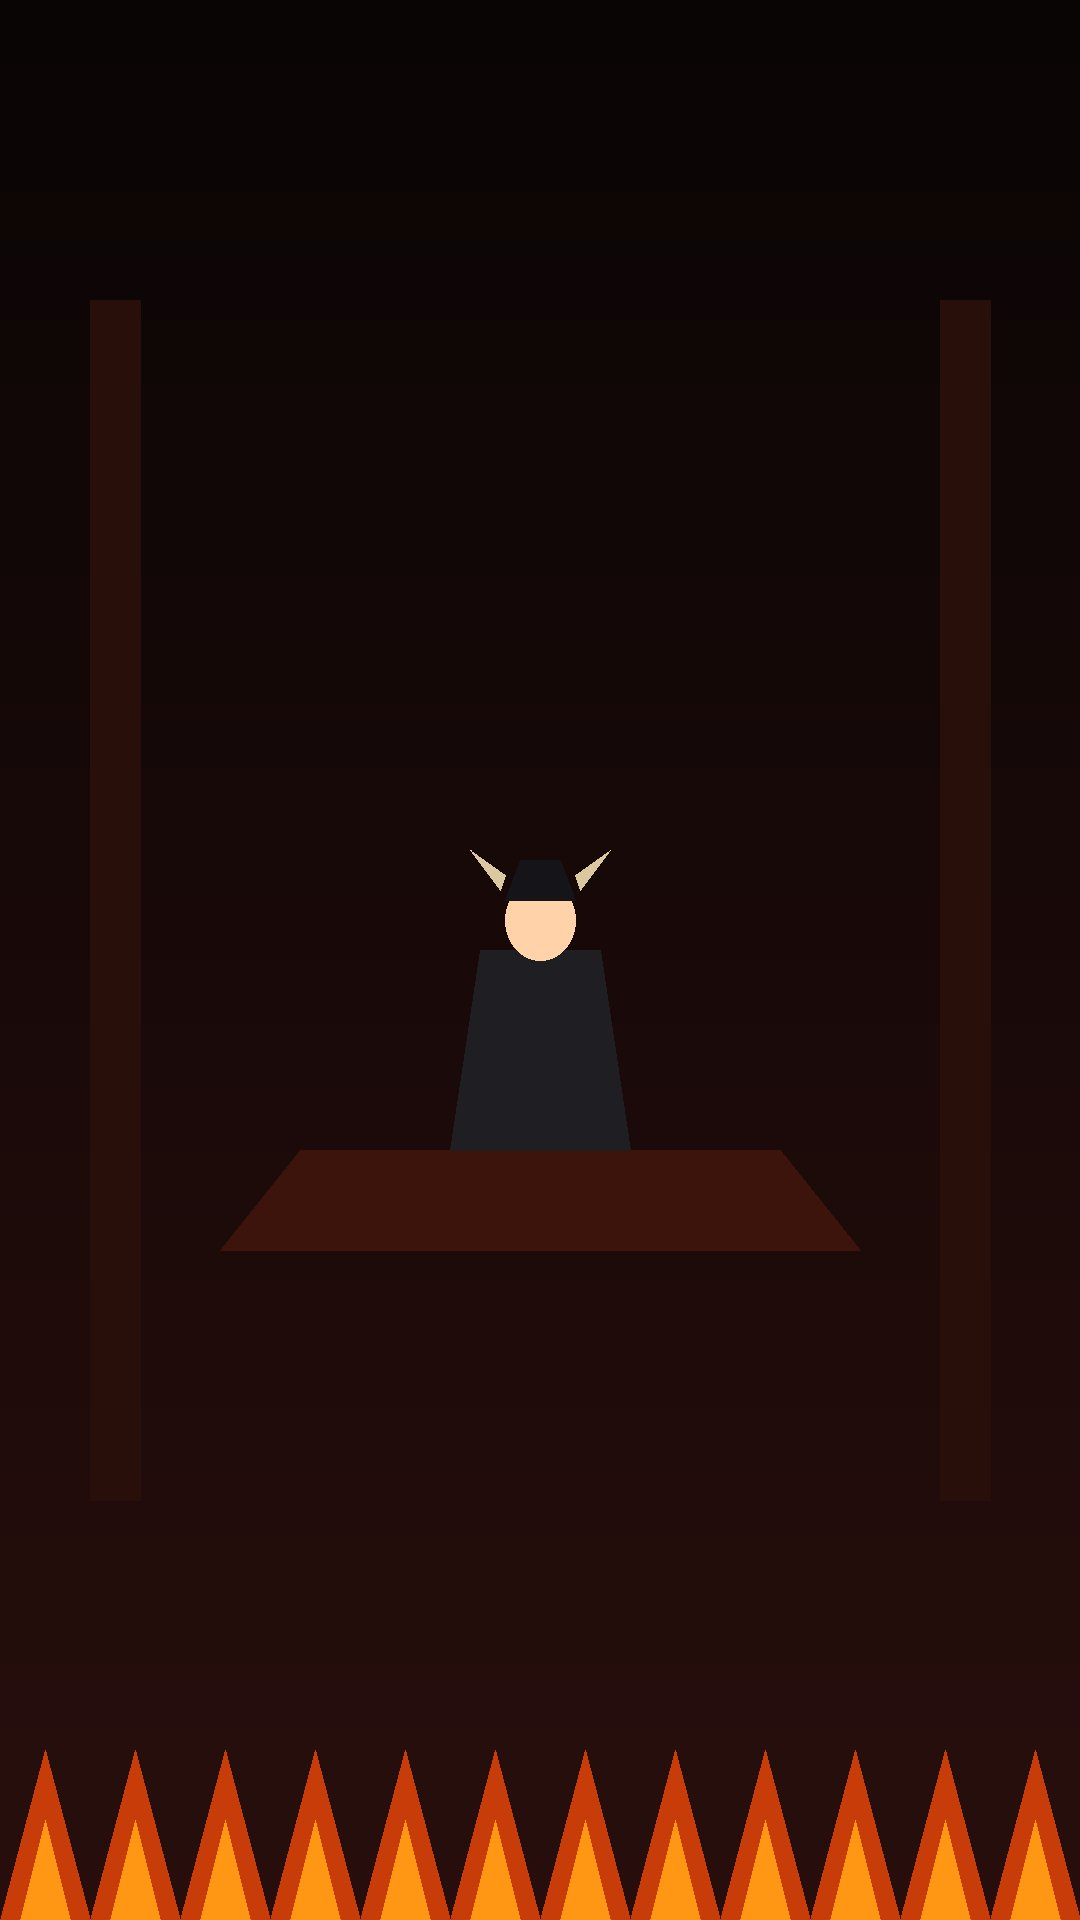
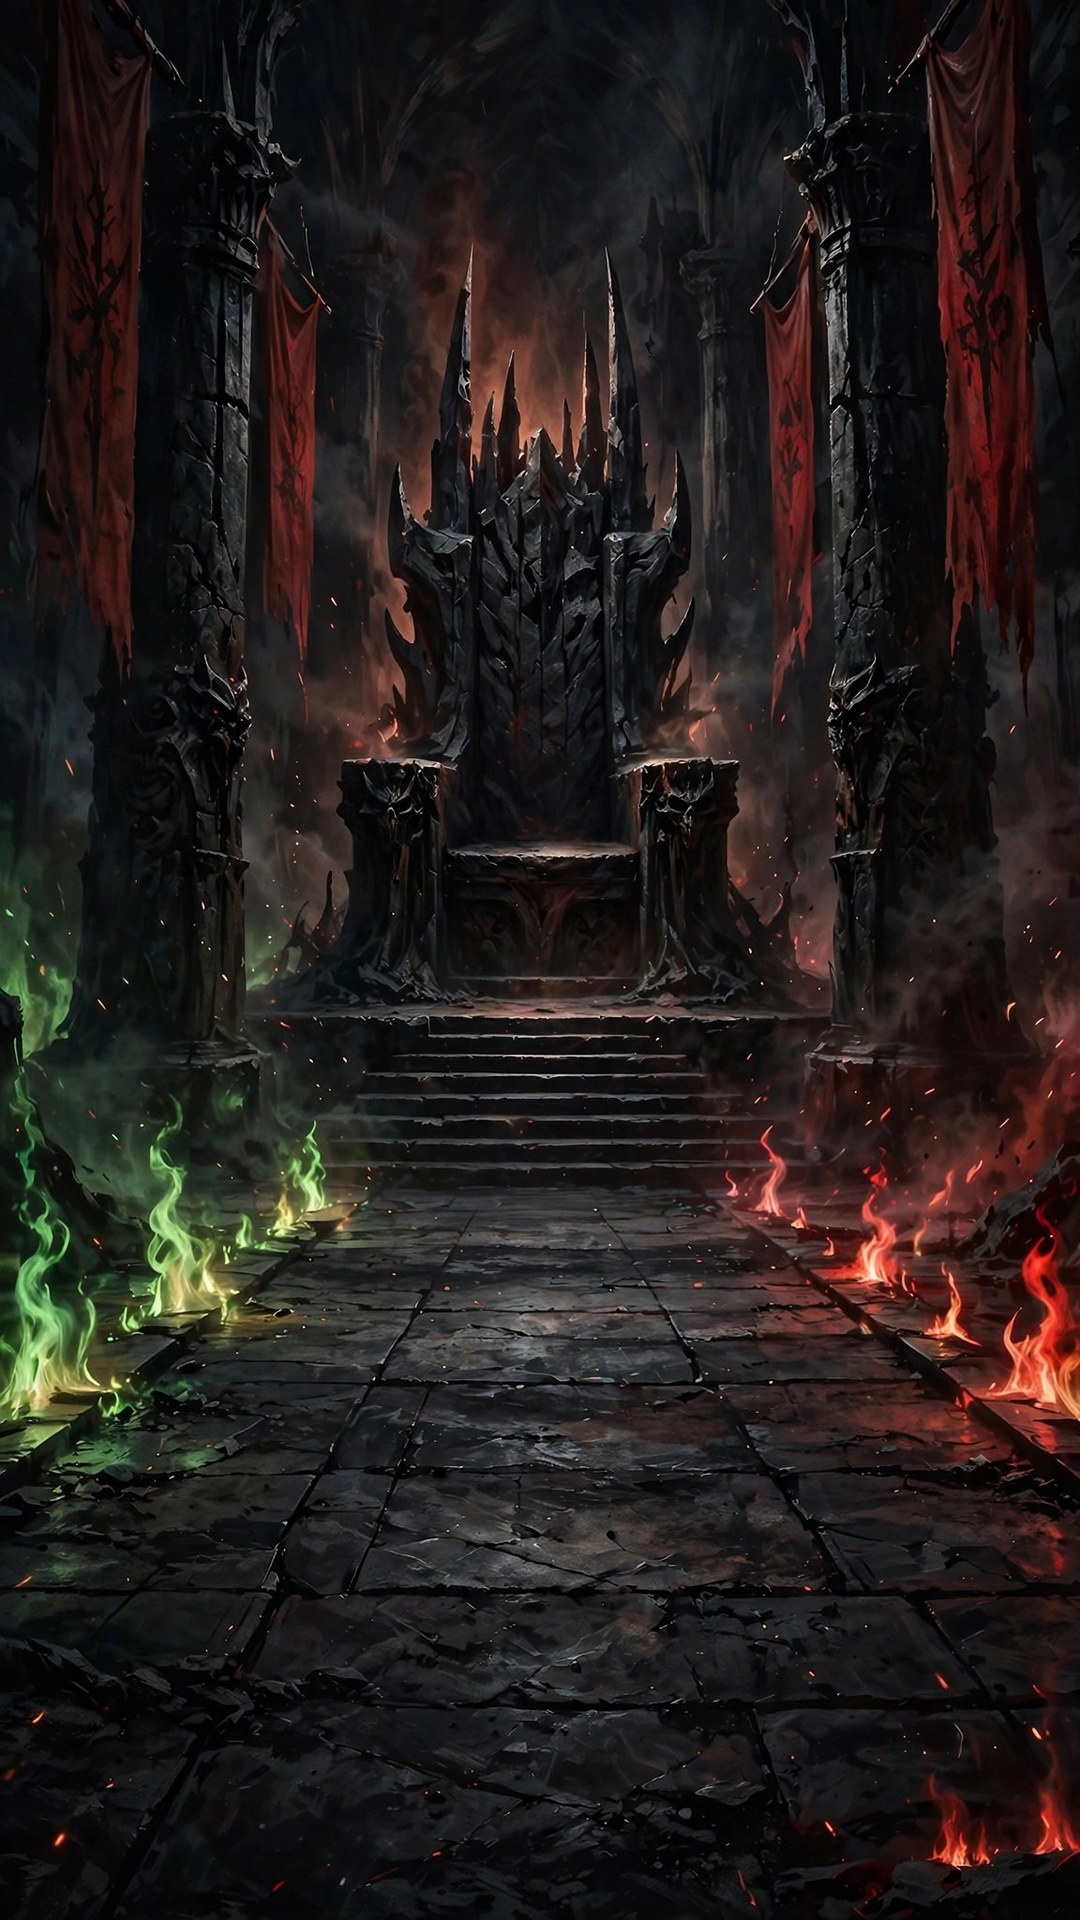
feat: thay asset PIL bằng ảnh tạo bằng công cụ ảnh — nền điện, Diêm Vương, hồn nam/nữ

diff --git a/README.md b/README.md
@@ -9,7 +9,7 @@ Người xem bình luận là bước vào điện, ngồi ghế xét xử, sám
 - Từ đổi skin đổi thành: diêm, phán, mạnh, tiểu quỷ, quỷ sai, nữ quỷ, nam quỷ.
 - Quà đổi thành: Huyết Hoa, Đèn Địa Ngục, Trống Địa Ngục.
 - Bảng Công Đức đổi thành Sổ Nghiệp.
-- Asset vẽ lại bằng PIL trong `tools/generate-assets.py`, không dùng ảnh chánh điện gốc. Nhạc thiền gốc đã gỡ, bản này chưa có nhạc nền riêng — thay file trong `assets/music/` hoặc tắt nhạc ở bảng điều khiển.
+- Asset vẽ lại bằng công cụ tạo ảnh (nền điện, Diêm Vương, hồn nam, hồn nữ), không dùng ảnh chánh điện gốc. Các skin còn lại dùng lại 3 hình này (nun dùng hồn nữ, granny dùng hồn nam, child dùng hồn nữ). Dải đi bộ anim_* đã gỡ, nhân vật xuất hiện tại chỗ thay vì đi bộ. Nhạc thiền gốc đã gỡ, bản này chưa có nhạc nền riêng — thay file trong `assets/music/` hoặc tắt nhạc ở bảng điều khiển.
 - Cơ chế giữ nguyên bản gốc: tối đa 100 chỗ, chỗ tự mở rộng 24 → 36 → 64 → 100, server chỉ nghe 127.0.0.1, WebSocket chỉ nhận Origin localhost, file tĩnh có danh sách trắng, không dùng tài khoản TikTok.
 
 ## Chạy bộ LIVE
